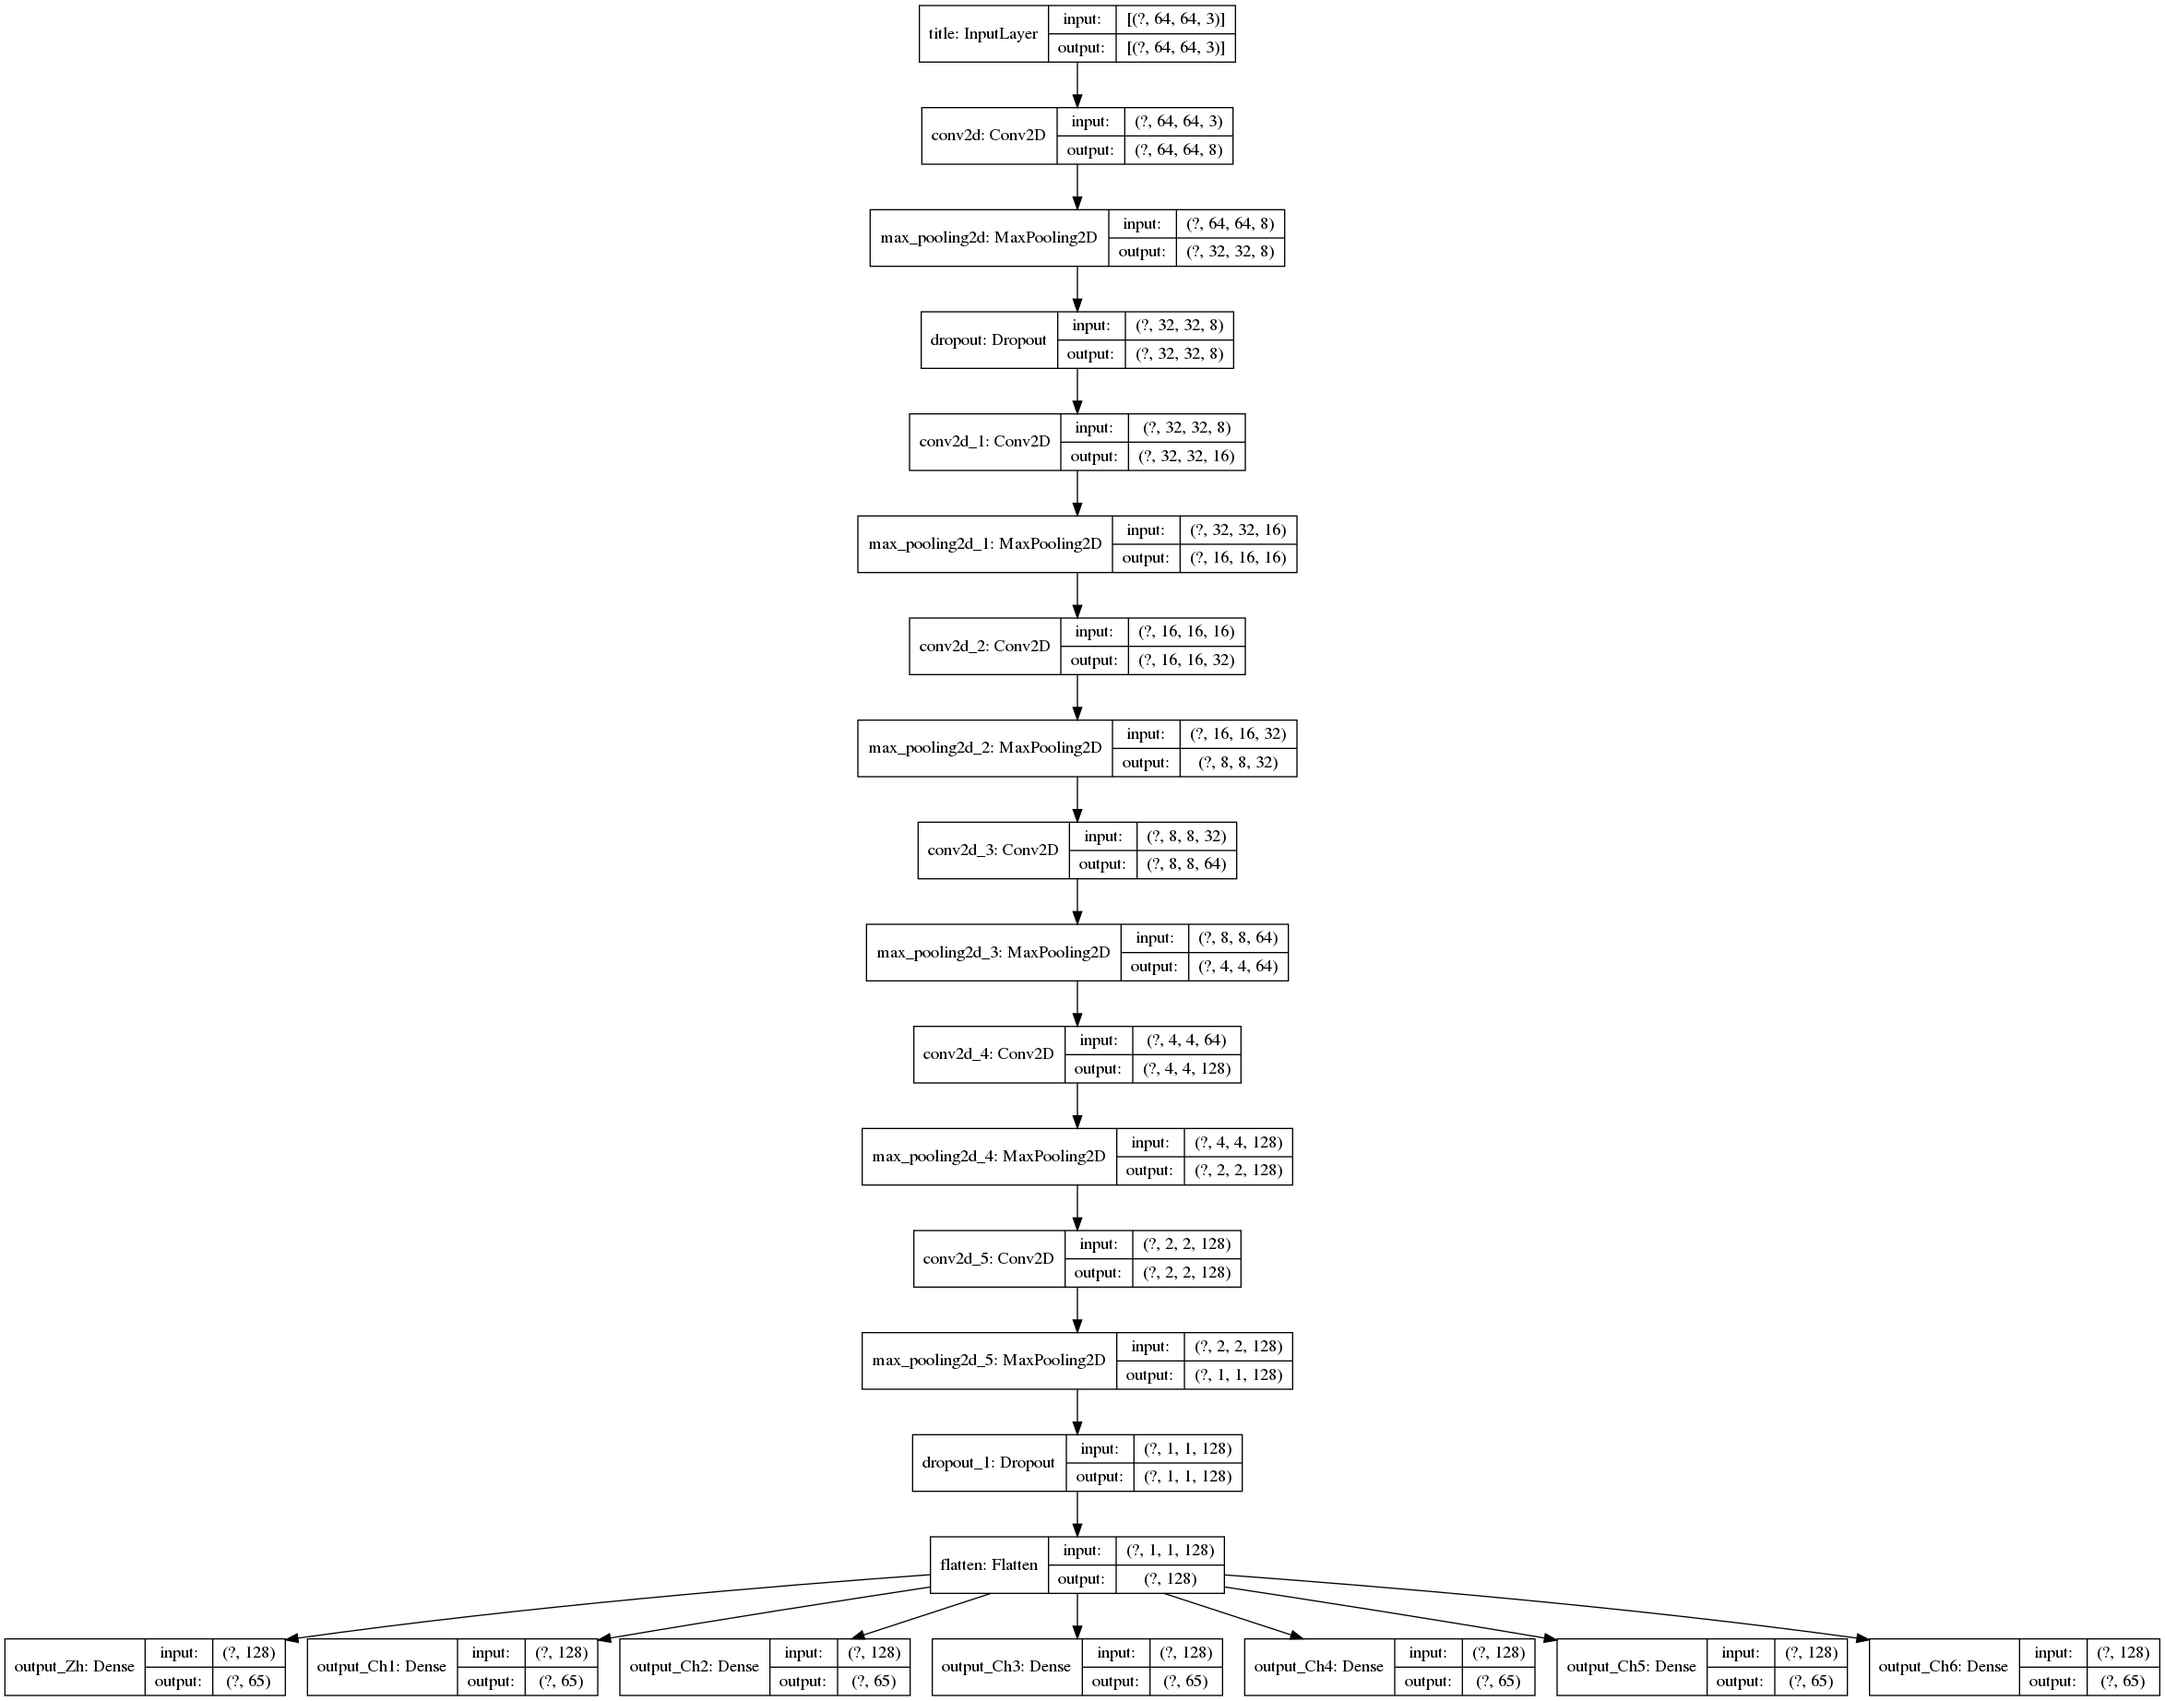
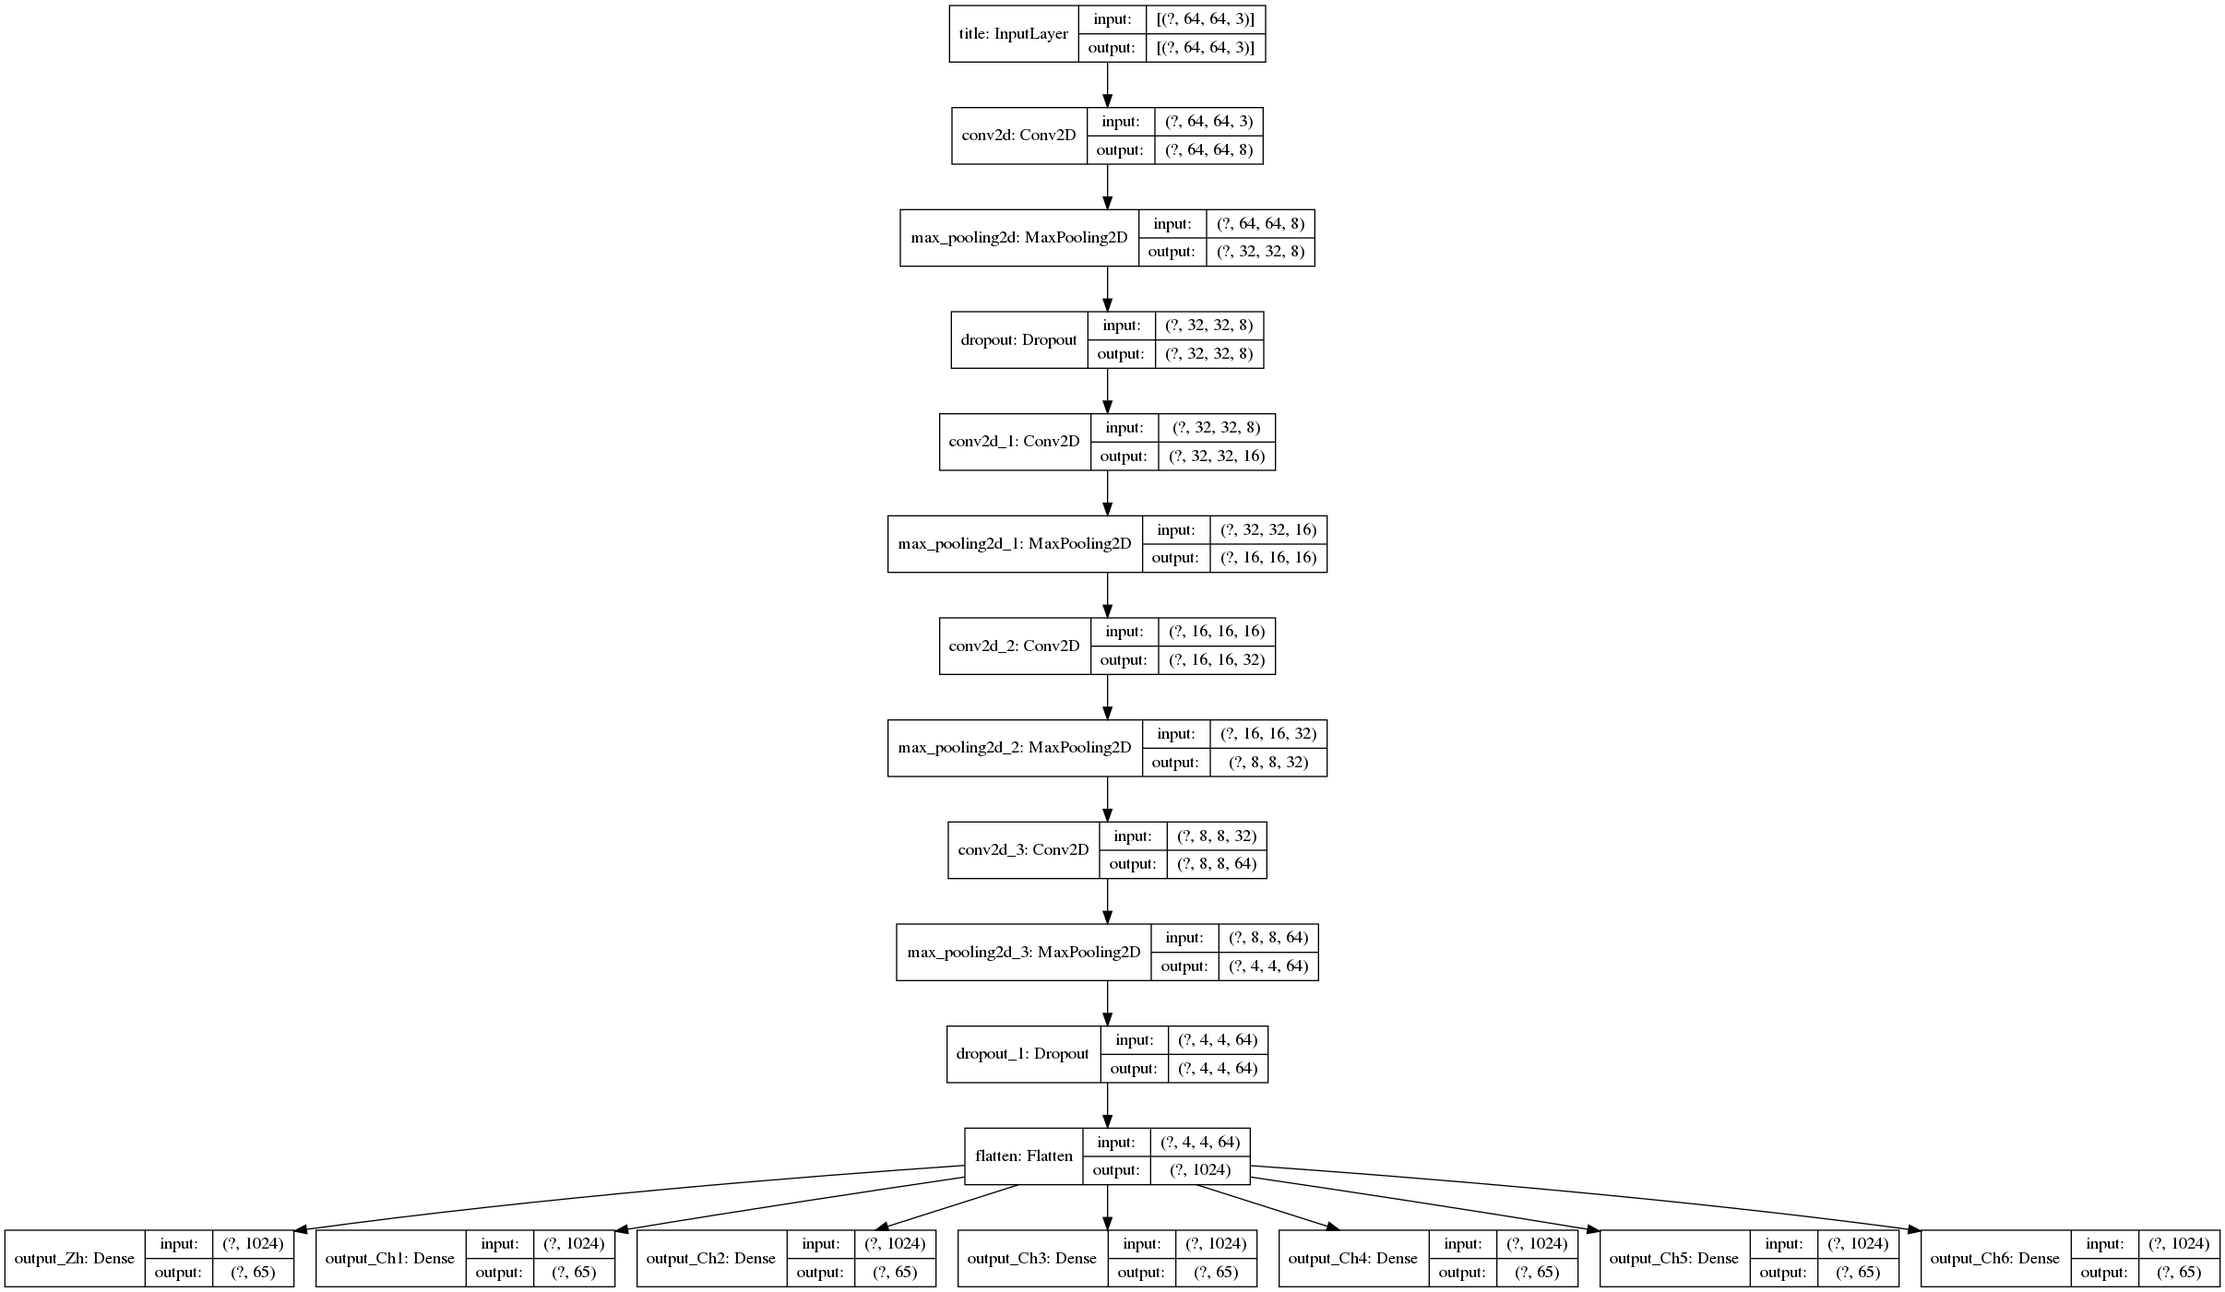
Tweak Model to improve accuracy

Changed region(s): [[0.0, 0.0, 1.0, 1.0]]

diff --git a/train.py b/train.py
@@ -66,10 +66,6 @@ def Forward():
     x=layers.MaxPooling2D(2)(x)
     x=layers.Conv2D(64,3,activation="relu",padding='same',kernel_initializer="he_normal")(x)
     x=layers.MaxPooling2D(2)(x)
-    x=layers.Conv2D(128,3,activation="relu",padding='same',kernel_initializer="he_normal")(x)
-    x=layers.MaxPooling2D(2)(x)
-    x=layers.Conv2D(128,3,activation="relu",padding='same',kernel_initializer="he_normal")(x)
-    x=layers.MaxPooling2D(2)(x)
     x=layers.Dropout(0.20)(x)
     x=layers.Flatten()(x)
     output_Zh=layers.Dense(65,activation="softmax",name="output_Zh")(x)
